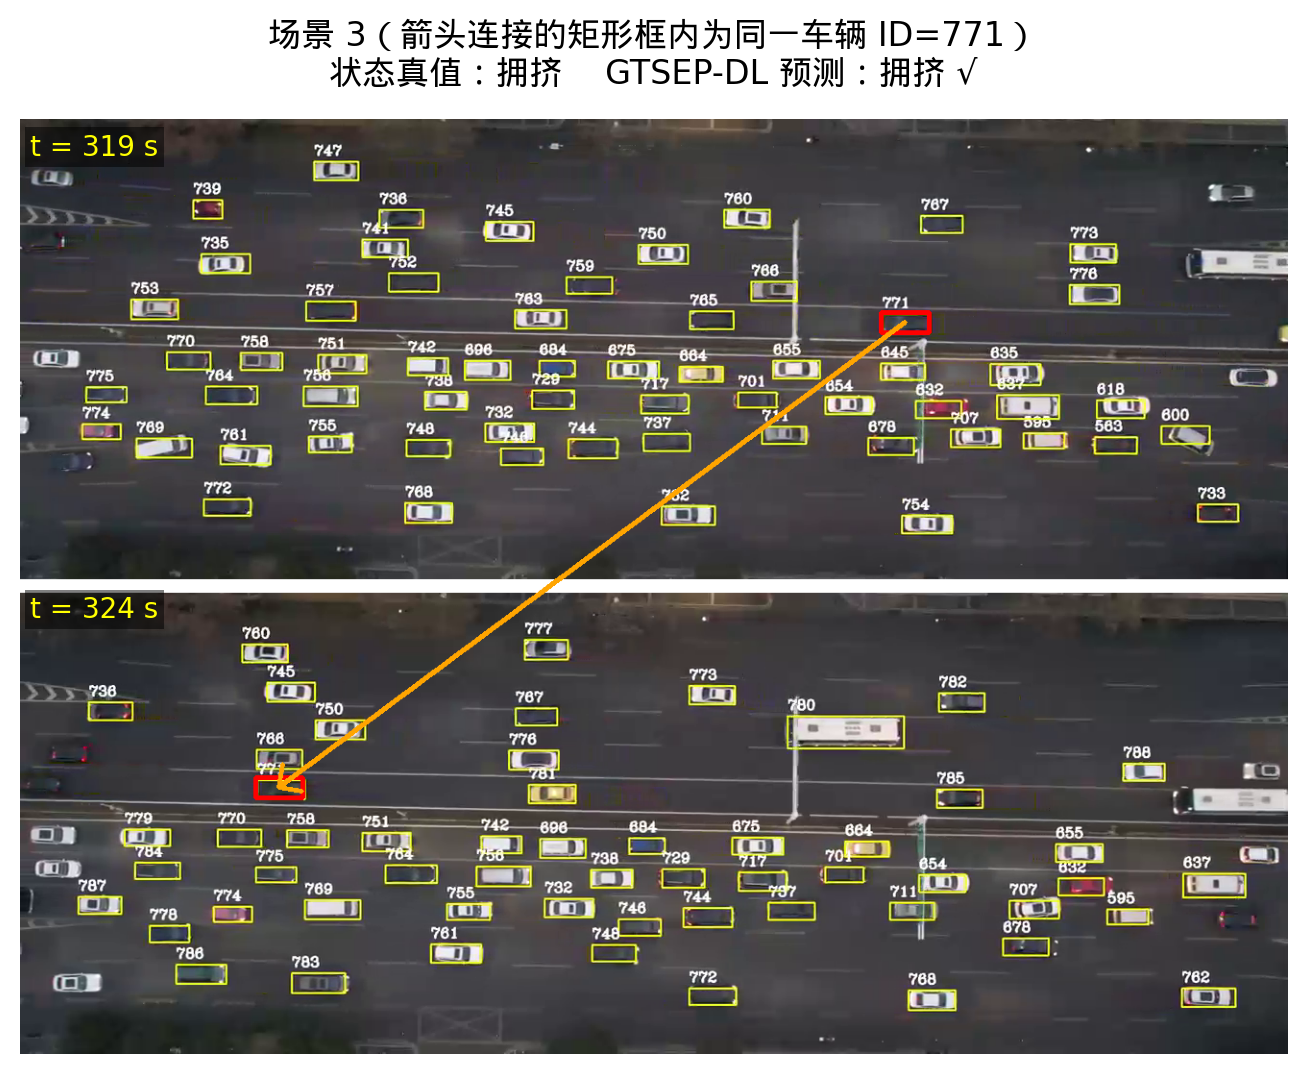
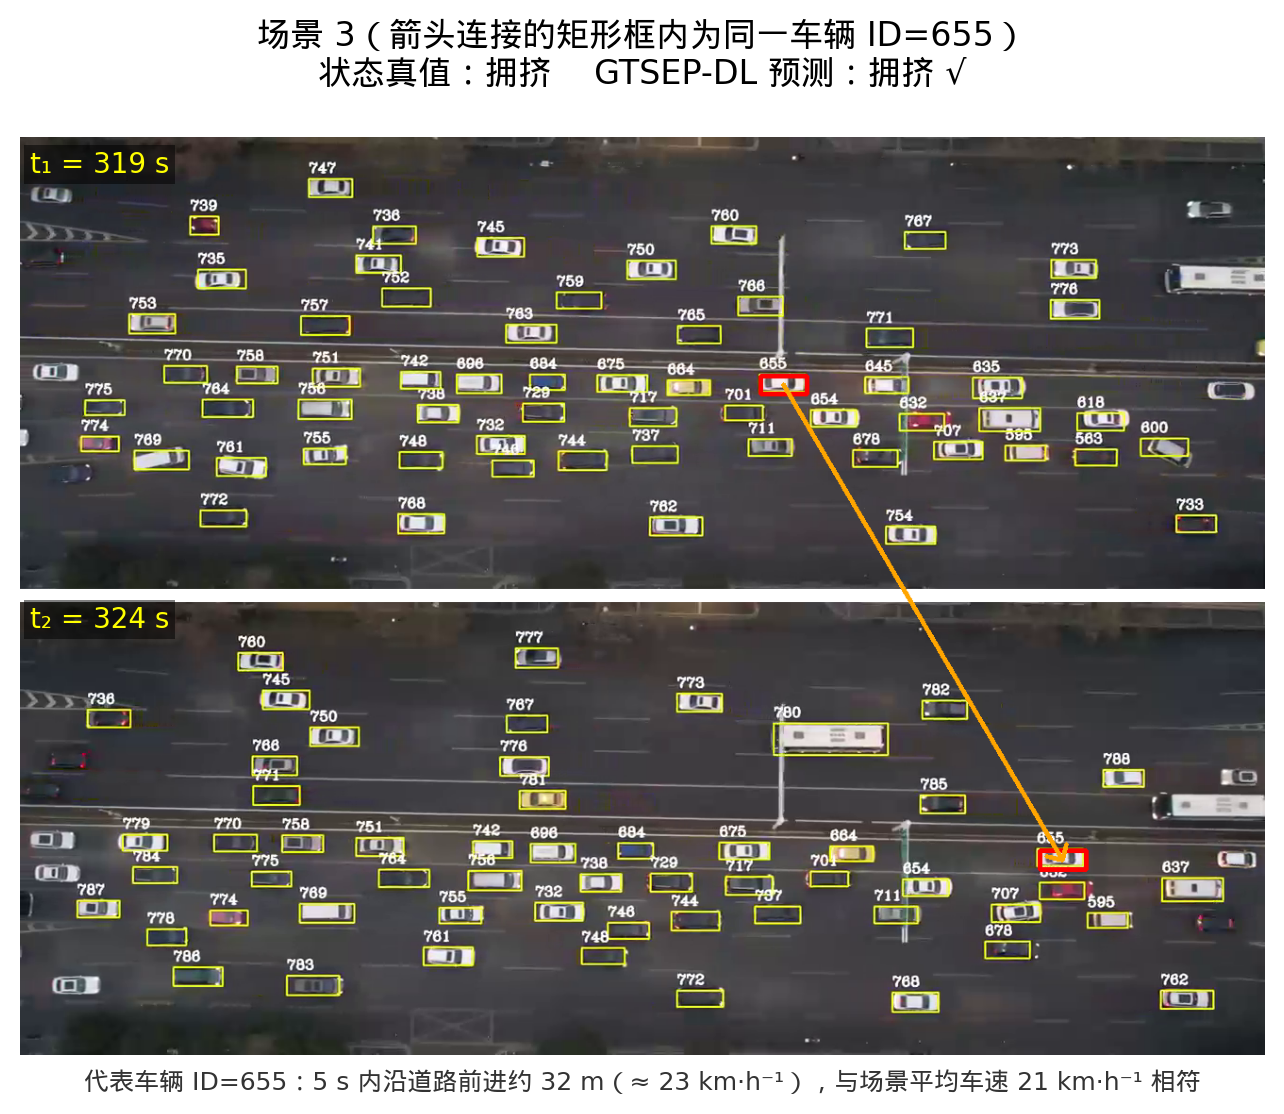
Scene figures: highlight a representative vehicle and analyse its real motion
- make_scene_tracking_figure.py now picks the vehicle whose own 5 s travel
  speed is closest to the scene mean speed (a representative car, not the
  max-displacement outlier), computes its real along-road displacement in
  metres (via the 140 m segment scale), and annotates Δd / speed on each image.
- Rewrite report §3.4: representative-vehicle framing, per-scene real
  displacements (≈29–33 m crowded → 36 m slow → 44 m free), updated vehicle
  IDs and a new "5 s displacement" table column; the arrow length now visibly
  encodes the traffic state, mirroring the reference figure.

diff --git a/scripts/make_scene_tracking_figure.py b/scripts/make_scene_tracking_figure.py
@@ -34,6 +34,7 @@ plt.rcParams["axes.unicode_minus"] = False
 
 FPS = 60.0
 FRAME_OFFSET = 3901
+SEGMENT_LENGTH_M = 140.0  # XAM-N-6 analysed road-segment length (configs/datasets.json)
 STATE_NAMES = ["畅通", "缓行", "拥挤", "堵塞"]
 GAP = 14  # pixel gap between the two stacked frames
 
@@ -82,31 +83,45 @@ def box_in_video(row, sx, sy, cy1, img_w, img_h):
     return int(round(x)), int(round(y)), int(round(x2)), int(round(y2))
 
 
-def pick_common_vehicle(px, f1, f2):
+def pick_representative_vehicle(px, f1, f2, mean_speed_kmh, m_per_unit, dt_s):
+    """Pick the vehicle present in both frames whose own 5 s travel speed is
+    closest to the scene mean speed — i.e. a vehicle that *represents* the
+    scene's traffic state, rather than the fastest/slowest outlier.
+
+    Returns (vid, row1, row2, disp_m, speed_kmh) or None.
+    """
     r1 = px[px.frame == f1].set_index("vehicleID")
     r2 = px[px.frame == f2].set_index("vehicleID")
     common = r1.index.intersection(r2.index)
     if len(common) == 0:
         return None
-    # Prefer a vehicle with clear displacement and away from the very edges.
-    best, best_score = None, -1.0
+    best, best_gap = None, float("inf")
     for vid in common:
         a, b = r1.loc[vid], r2.loc[vid]
-        if hasattr(a, "ndim") and getattr(a, "ndim", 1) > 1:
+        if getattr(a, "ndim", 1) > 1:
             a = a.iloc[0]
-        if hasattr(b, "ndim") and getattr(b, "ndim", 1) > 1:
+        if getattr(b, "ndim", 1) > 1:
             b = b.iloc[0]
-        disp = abs(float(a.x) - float(b.x)) + abs(float(a.y) - float(b.y))
-        if disp > best_score:
-            best_score, best = disp, (vid, a, b)
+        # Skip tiny boxes (noisy tracks).
+        if float(a.w) * float(a.h) < 800:
+            continue
+        cxa, cya = float(a.x) + float(a.w) / 2, float(a.y) + float(a.h) / 2
+        cxb, cyb = float(b.x) + float(b.w) / 2, float(b.y) + float(b.h) / 2
+        disp_units = float(np.hypot(cxb - cxa, cyb - cya))
+        disp_m = disp_units * m_per_unit
+        speed_kmh = disp_m / max(dt_s, 1e-6) * 3.6
+        gap = abs(speed_kmh - mean_speed_kmh)
+        if gap < best_gap:
+            best_gap = gap
+            best = (vid, a, b, round(disp_m, 1), round(speed_kmh, 1))
     return best
 
 
-def render_scene(cap, px, t1, t2, scales, img_dims):
+def render_scene(cap, px, t1, t2, scales, img_dims, mean_speed_kmh, m_per_unit):
     sx, sy, cy1 = scales
     img_w, img_h = img_dims
     f1, f2 = pixel_frame_for(t1), pixel_frame_for(t2)
-    veh = pick_common_vehicle(px, f1, f2)
+    veh = pick_representative_vehicle(px, f1, f2, mean_speed_kmh, m_per_unit, t2 - t1)
     im1, im2 = grab_frame(cap, t1), grab_frame(cap, t2)
     if im1 is None or im2 is None:
         return None
@@ -127,8 +142,10 @@ def render_scene(cap, px, t1, t2, scales, img_dims):
         p1 = (centers[0][0], centers[0][1])
         p2 = (centers[1][0], img_h + GAP + centers[1][1])
         cv2.arrowedLine(canvas, p1, p2, (0, 165, 255), 3, tipLength=0.03)
-    vid = None if veh is None else int(veh[0])
-    return cv2.cvtColor(canvas, cv2.COLOR_BGR2RGB), vid
+    img = cv2.cvtColor(canvas, cv2.COLOR_BGR2RGB)
+    if veh is None:
+        return img, None, None, None
+    return img, int(veh[0]), veh[3], veh[4]  # img, vid, disp_m, speed_kmh
 
 
 def select_scenes(tp, true, pr, win, horizon, n=5):
@@ -175,6 +192,10 @@ def select_scenes(tp, true, pr, win, horizon, n=5):
 def main():
     horizon, tp, true, pr, win, px = load_assets()
     cx2, cy1, cy2 = coord_bounds(px)
+    x_min = float(px.x.min())
+    # Coord-unit -> metre scale: the analysed road segment (140 m) spans the
+    # along-road (x) extent of all tracked vehicles.
+    m_per_unit = SEGMENT_LENGTH_M / max(cx2 - x_min, 1.0)
     cap = cv2.VideoCapture(str(PROJECT_ROOT / "data_check/XAM-N/XAM-N-6/sample video.mp4"))
     img_w = int(cap.get(cv2.CAP_PROP_FRAME_WIDTH))
     img_h = int(cap.get(cv2.CAP_PROP_FRAME_HEIGHT))
@@ -191,22 +212,28 @@ def main():
         wrow = win.iloc[q]
         t1 = float(wrow.start_s)
         t2 = float(wrow.end_s)
-        out = render_scene(cap, px, t1, t2, (sx, sy, cy1), (img_w, img_h))
+        out = render_scene(cap, px, t1, t2, (sx, sy, cy1), (img_w, img_h),
+                           float(wrow.mean_speed_kmh), m_per_unit)
         if out is None:
             continue
-        img, vid = out
+        img, vid, disp_m, veh_speed = out
         true_s = STATE_NAMES[int(true[k])]
         pred_s = STATE_NAMES[int(pr[k])]
         correct = true_s == pred_s
 
         # One standalone figure per scene.
-        fig = plt.figure(figsize=(6.6, 5.4))
-        ax = fig.add_axes([0.02, 0.02, 0.96, 0.88]); ax.axis("off")
+        fig = plt.figure(figsize=(6.6, 5.6))
+        ax = fig.add_axes([0.02, 0.06, 0.96, 0.82]); ax.axis("off")
         ax.imshow(img)
-        ax.text(0.008, 0.985, f"t = {t1:.0f} s", transform=ax.transAxes, ha="left", va="top",
+        ax.text(0.008, 0.985, f"t₁ = {t1:.0f} s", transform=ax.transAxes, ha="left", va="top",
                 fontsize=10, color="yellow", bbox=dict(facecolor="black", alpha=0.5, pad=2, edgecolor="none"))
-        ax.text(0.008, 0.49, f"t = {t2:.0f} s", transform=ax.transAxes, ha="left", va="top",
+        ax.text(0.008, 0.49, f"t₂ = {t2:.0f} s", transform=ax.transAxes, ha="left", va="top",
                 fontsize=10, color="yellow", bbox=dict(facecolor="black", alpha=0.5, pad=2, edgecolor="none"))
+        if disp_m is not None:
+            ax.text(0.5, -0.015,
+                    f"代表车辆 ID={vid}：5 s 内沿道路前进约 {disp_m:.0f} m（≈ {veh_speed:.0f} km·h⁻¹），"
+                    f"与场景平均车速 {wrow.mean_speed_kmh:.0f} km·h⁻¹ 相符",
+                    transform=ax.transAxes, ha="center", va="top", fontsize=9, color="#333")
         mark = "√" if correct else "×"
         color = "#1a7f37" if correct else "#c0392b"
         title = (f"场景 {i}（箭头连接的矩形框内为同一车辆 ID={vid}）\n"
@@ -218,6 +245,7 @@ def main():
 
         meta.append({
             "scene": i, "t1_s": round(t1, 1), "t2_s": round(t2, 1), "vehicle_id": vid,
+            "veh_displacement_m": disp_m, "veh_speed_kmh": veh_speed,
             "mean_speed_kmh": round(float(wrow.mean_speed_kmh), 2),
             "density_veh_per_m": round(float(wrow.density_veh_per_m), 3),
             "vehicle_count": int(wrow.vehicle_count),
@@ -227,6 +255,7 @@ def main():
         })
         print(f"[FIG] scene {i}: {fp.name}  V={wrow.mean_speed_kmh:.1f}km/h "
               f"D={wrow.density_veh_per_m:.3f}veh/m N={int(wrow.vehicle_count)} "
+              f"vehID={vid} disp={disp_m}m vspd={veh_speed}km/h "
               f"true={true_s} pred={pred_s} {'OK' if correct else 'WRONG'}")
     cap.release()
 
